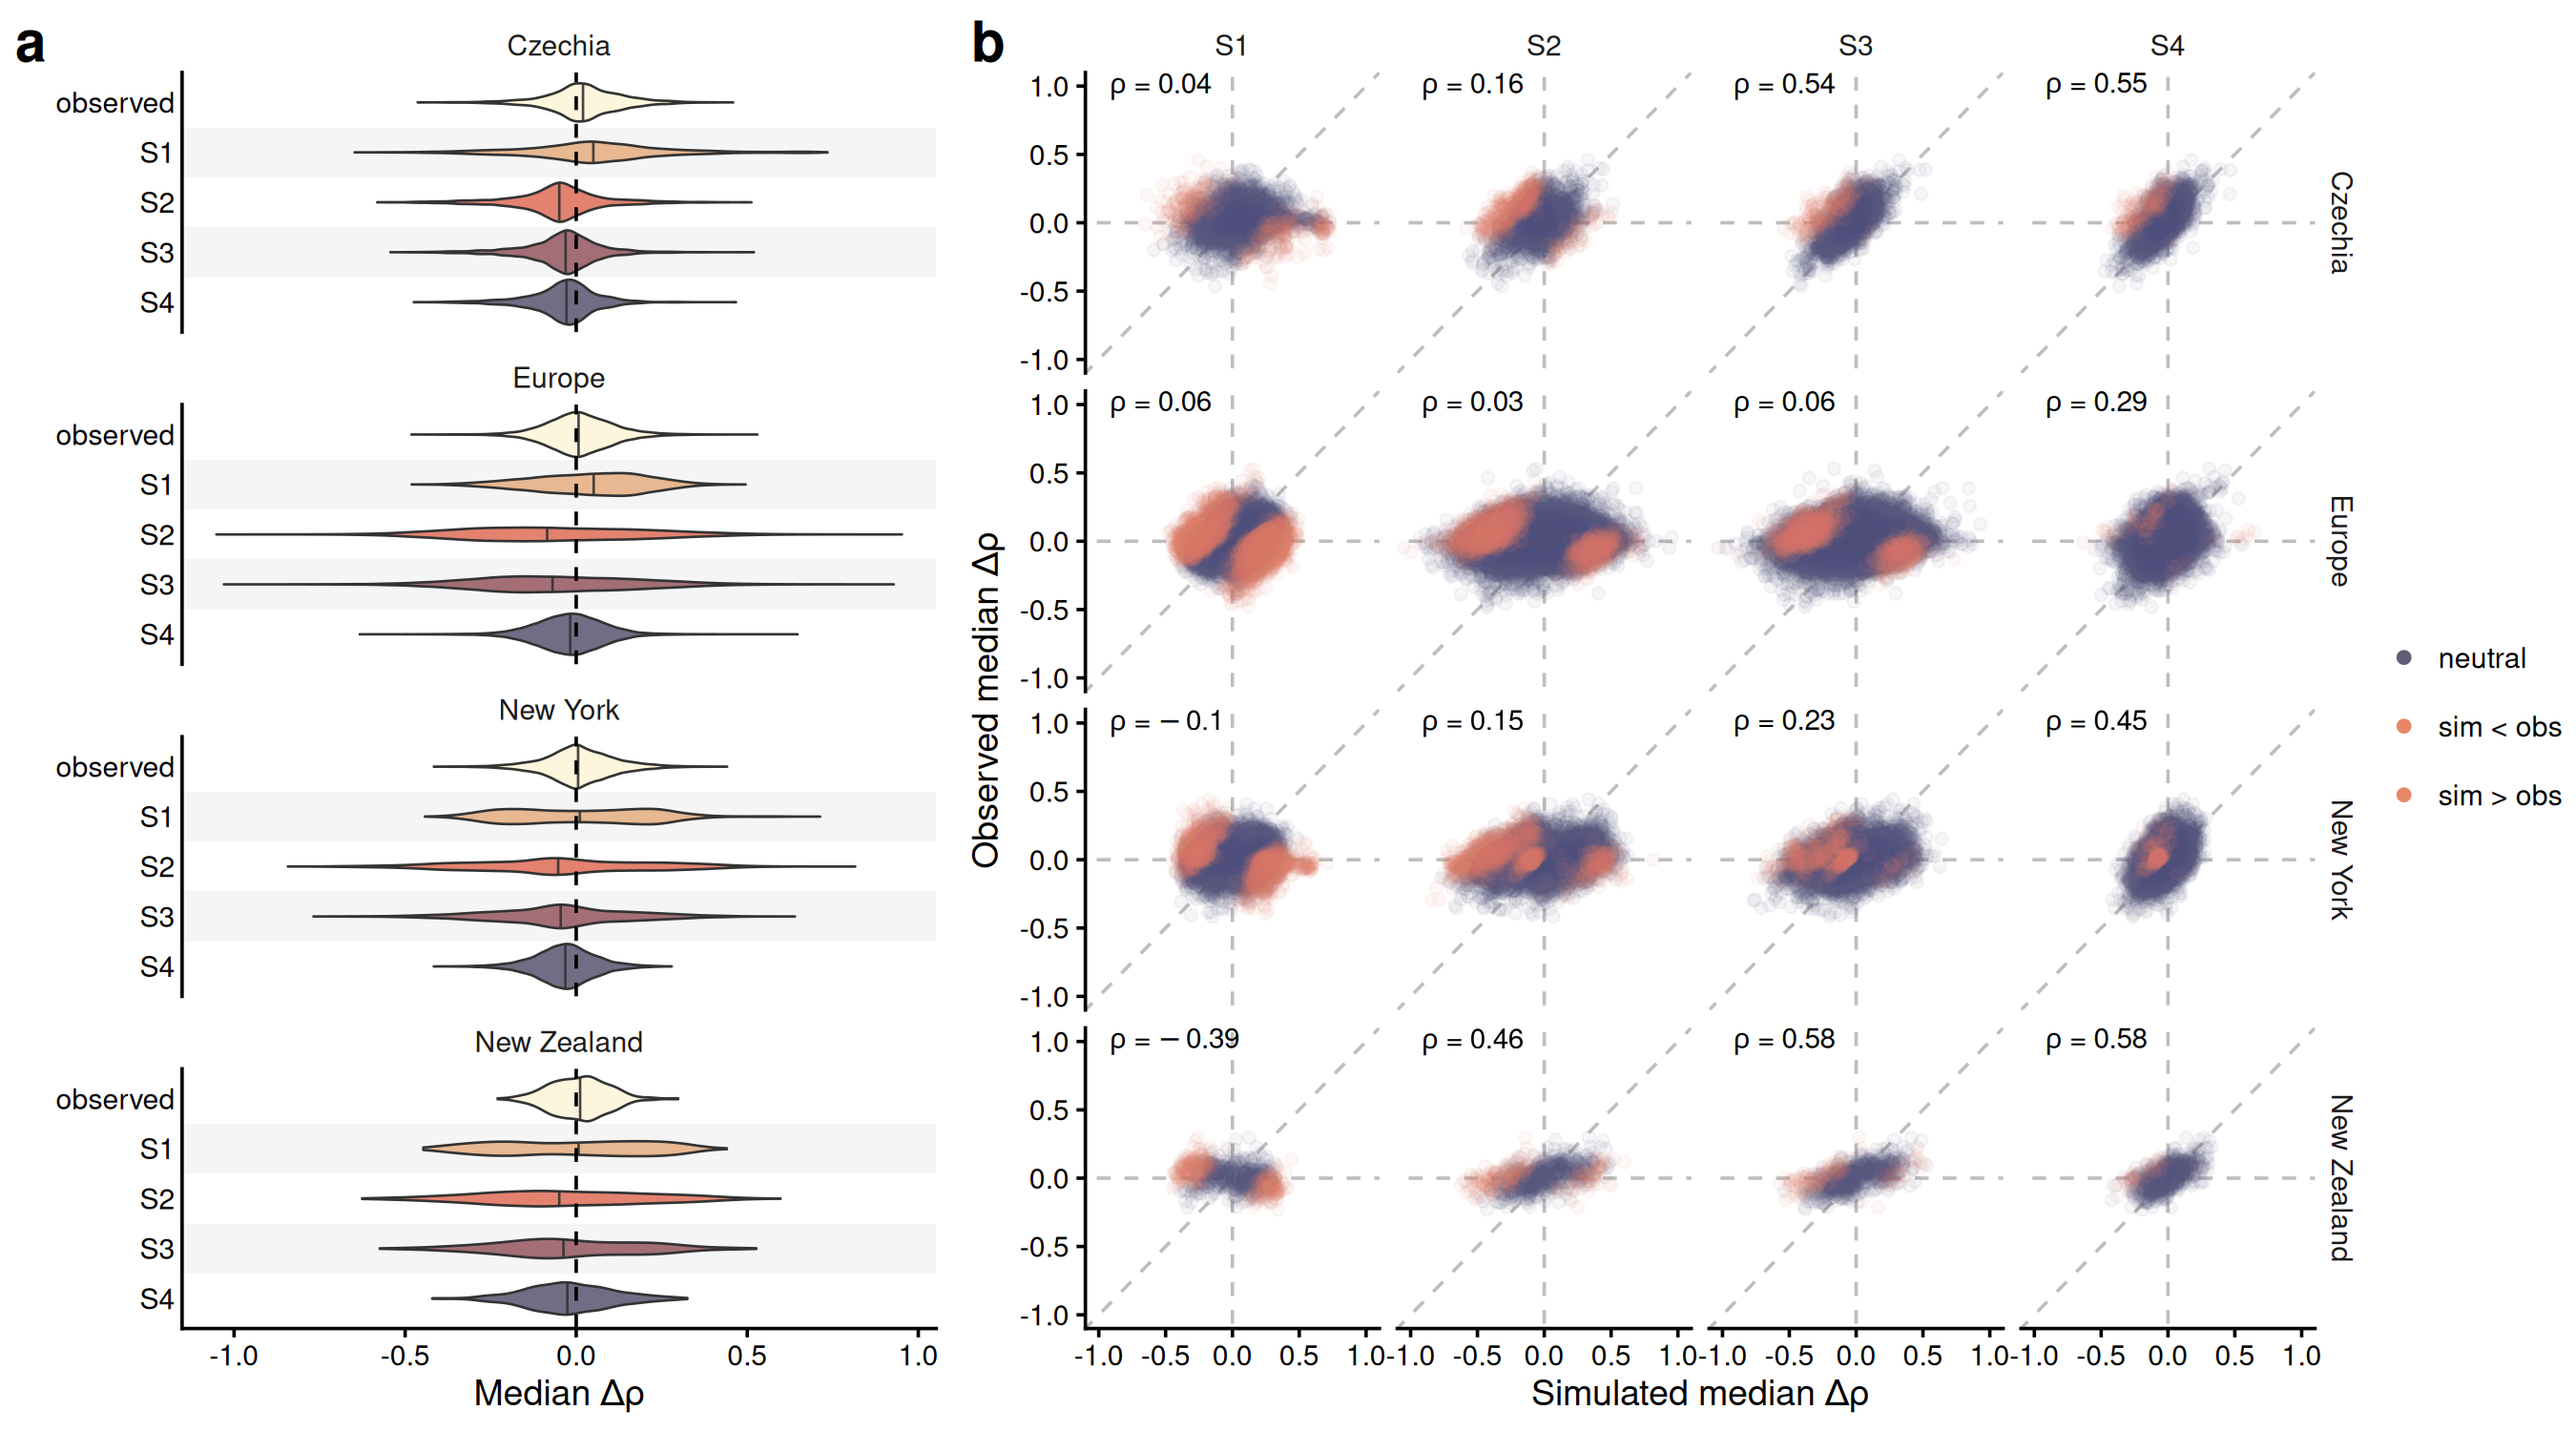
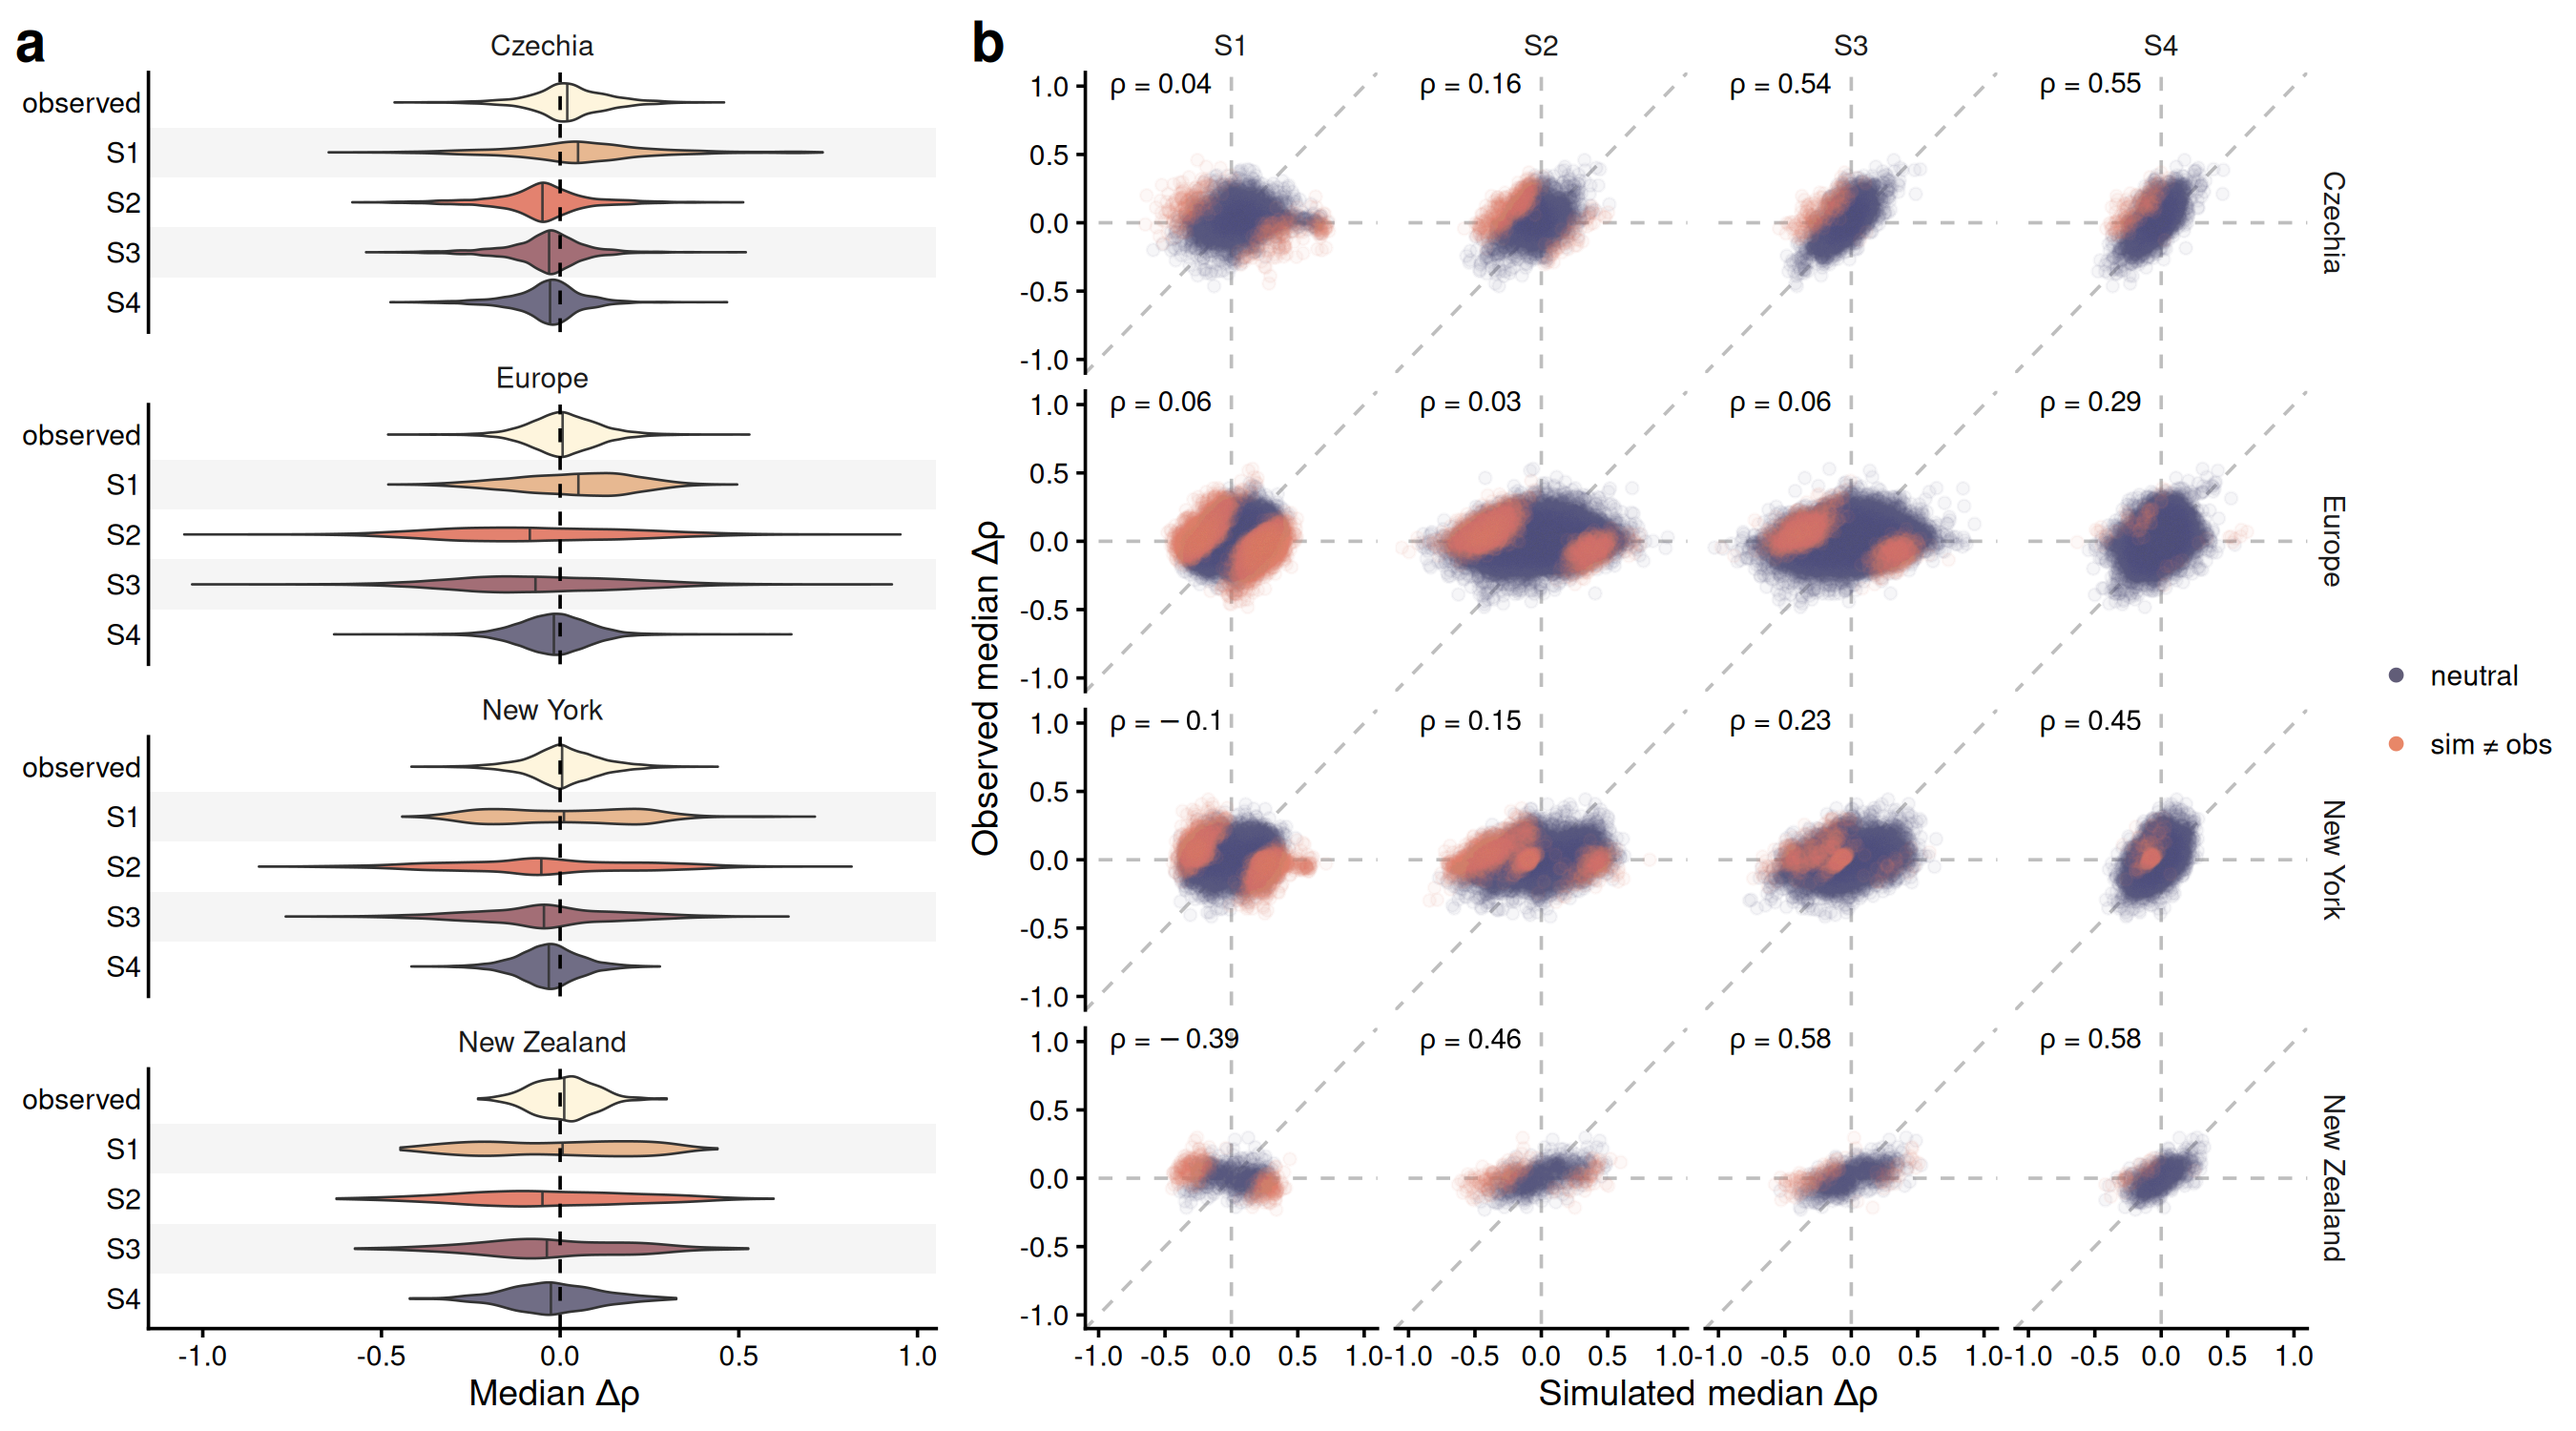
scatter obs sim update, readme package update

diff --git a/README.md b/README.md
@@ -49,7 +49,7 @@ provided in the manuscript file and will be added here once it goes public.
 
 All analyses were run in R version 4.5.2. The R packages used are: `ape`, `broom`, `broom.mixed`, `caret`, `circlize`, `clootl`,
 `cluster`, `cowplot`, `data.table`, `exactextractr`, `gbm`, `geodata`,
-`ggeffects`, `ggplot2`, `ggpubr`, `ggpmisc`, `ggsci`, `ggtext`, `gt`, `knitr`,
+`ggeffects`, `ggplot2`, `ggpubr`, `ggpmisc`, `ggsci`, `ggtext`, `knitr`,
 `lmerMultiMember`, `MASS`, `parallel`, `performance`, `phytools`,
 `RhpcBLASctl`, `scico`, `scattermore`, `sf`, `sp`, `terra`, and `vegan`.
 Tested on Linux Mint 22.3, 32.5 GB RAM.
